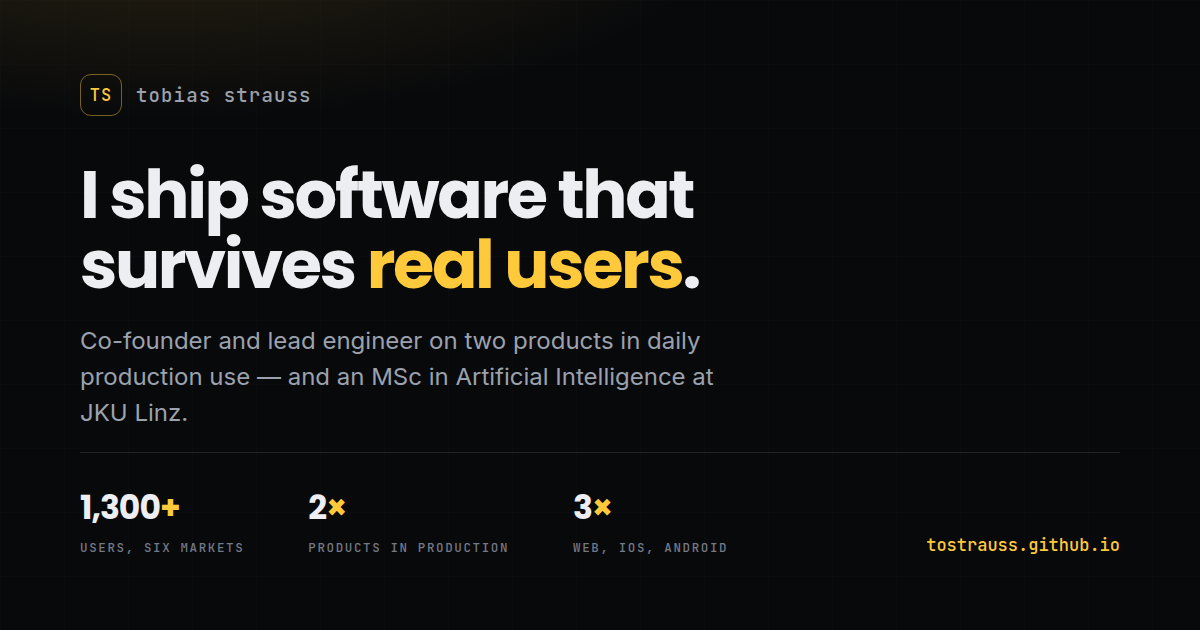
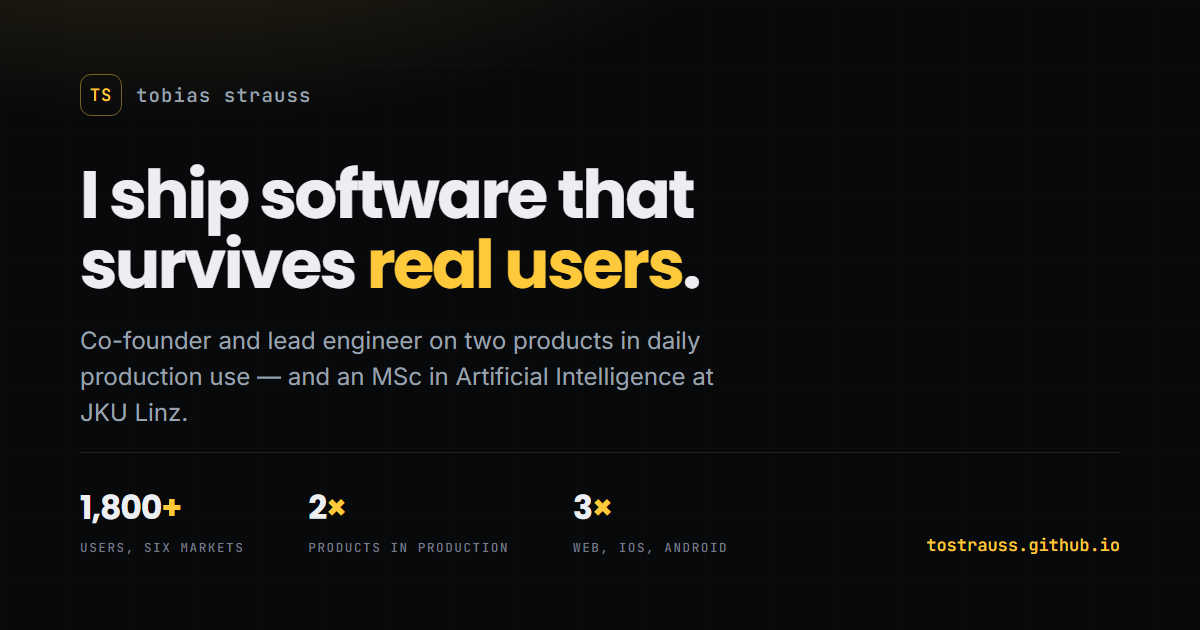
Update the JAMIE user count to 1,800+ and name Gastropoly's pilot venues
JAMIE now has 1,800 users, so every "1,300+" figure moves to "1,800+":
the home proof strip (counter target included), the "Now scaling" card
and the JAMIE preview card, the About bio, the JAMIE case study lede and
KPI, the Resume entry, the Open Graph and Twitter descriptions and the
image alt text on every page, and the share card. og-image.png is
re-rendered from tools/og-card.html; against a render of the unchanged
template only the digits differ.

Gastropoly's single "pilot venue in Austria" becomes three named pilot
venues (Cafe Rathaus, Krawall Bar and Purkis) on the home "Now shipping"
card, in the About bio, the case study lede and the Resume entry, with a
"3 pilot venues" tile on the home card and in the case study KPI row.

The CV generator and the PDF still say 1,300+; they wait for the
pending PDF pass.

diff --git a/index.html b/index.html
@@ -10,16 +10,16 @@
   <link rel="canonical" href="https://tostrauss.github.io/">
 
   <meta property="og:title" content="Tobias Strauss | Full-Stack &amp; AI Engineer, Vienna">
-  <meta property="og:description" content="Full-Stack &amp; AI Engineer in Vienna, available now for part-time roles (20–30 h/week) and freelance projects. Two products in production, 1,300+ users across six European markets.">
+  <meta property="og:description" content="Full-Stack &amp; AI Engineer in Vienna, available now for part-time roles (20–30 h/week) and freelance projects. Two products in production, 1,800+ users across six European markets.">
   <meta property="og:type" content="website">
   <meta property="og:image" content="https://tostrauss.github.io/og-image.png">
   <meta property="og:image:width" content="1200">
   <meta property="og:image:height" content="630">
-  <meta property="og:image:alt" content="Tobias Strauss — I ship software that survives real users. 1,300+ users across six markets, two products in production.">
+  <meta property="og:image:alt" content="Tobias Strauss — I ship software that survives real users. 1,800+ users across six markets, two products in production.">
   <meta property="og:url" content="https://tostrauss.github.io/">
   <meta name="twitter:card" content="summary_large_image">
   <meta name="twitter:title" content="Tobias Strauss | Full-Stack &amp; AI Engineer, Vienna">
-  <meta name="twitter:description" content="Available now for part-time and freelance work in Vienna. Two products in production, 1,300+ users, six markets.">
+  <meta name="twitter:description" content="Available now for part-time and freelance work in Vienna. Two products in production, 1,800+ users, six markets.">
 
   <title>Tobias Strauss | Full-Stack &amp; AI Engineer, Vienna</title>
   <link rel="icon" href="favicon.svg" type="image/svg+xml">
@@ -166,7 +166,7 @@
           <!-- Proof, above the fold -->
           <div class="stats fade-in">
             <div class="stat">
-              <div class="stat-num"><span data-count="1300">1,300</span><span class="unit">+</span></div>
+              <div class="stat-num"><span data-count="1800">1,800</span><span class="unit">+</span></div>
               <p class="stat-label">registered users on JAMIE, across six European markets</p>
             </div>
             <div class="stat">
@@ -183,11 +183,11 @@
           <div class="now-grid">
             <div class="now-card fade-in">
               <span class="mono-label">Now shipping</span>
-              <p><strong>Gastropoly</strong> — restaurant operations platform, in production since July 2026 and running the daily shift at our pilot venue in Austria.</p>
+              <p><strong>Gastropoly</strong> — restaurant operations platform, in production since July 2026 and now in use at three pilot venues: Cafe Rathaus, Krawall Bar and Purkis.</p>
             </div>
             <div class="now-card fade-in">
               <span class="mono-label">Now scaling</span>
-              <p><strong>JAMIE</strong> — 1,300+ registered users across AT, DE, CH, IT, FR and ES, localised in five languages, live on both app stores.</p>
+              <p><strong>JAMIE</strong> — 1,800+ registered users across AT, DE, CH, IT, FR and ES, localised in five languages, live on both app stores.</p>
             </div>
             <div class="now-card fade-in">
               <span class="mono-label">Now studying</span>
@@ -216,6 +216,7 @@
               assistant with voice mode and a weather-driven demand model that feeds both ordering and rostering.
             </p>
             <div class="mini-metrics">
+              <div><span class="mini-num">3</span><span class="mini-label">pilot venues</span></div>
               <div><span class="mini-num">158</span><span class="mini-label">pages</span></div>
               <div><span class="mini-num">63</span><span class="mini-label">API routes</span></div>
               <div><span class="mini-num">155</span><span class="mini-label">migrations</span></div>
@@ -232,7 +233,7 @@
               Activity and to iOS through Capacitor, with real-time chat and push.
             </p>
             <div class="mini-metrics">
-              <div><span class="mini-num">1,300+</span><span class="mini-label">users</span></div>
+              <div><span class="mini-num">1,800+</span><span class="mini-label">users</span></div>
               <div><span class="mini-num">6</span><span class="mini-label">markets</span></div>
               <div><span class="mini-num">5</span><span class="mini-label">languages</span></div>
             </div>

diff --git a/projects.html b/projects.html
@@ -12,7 +12,7 @@
   <meta property="og:image" content="https://tostrauss.github.io/og-image.png">
   <meta property="og:image:width" content="1200">
   <meta property="og:image:height" content="630">
-  <meta property="og:image:alt" content="Tobias Strauss — I ship software that survives real users. 1,300+ users across six markets, two products in production.">
+  <meta property="og:image:alt" content="Tobias Strauss — I ship software that survives real users. 1,800+ users across six markets, two products in production.">
   <meta property="og:url" content="https://tostrauss.github.io/projects.html">
   <meta name="twitter:card" content="summary_large_image">
 
@@ -69,10 +69,11 @@
               Independent restaurants run on paper, spreadsheets and WhatsApp: the roster is on the wall,
               the delivery notes are in a drawer, the fridge temperatures are on a clipboard and the
               accountant gets a shoebox. Gastropoly replaces all of it with one multi-tenant app —
-              in daily use at our pilot venue in Austria, where it runs the actual shift.
+              now in use at three pilot venues: Cafe Rathaus, Krawall Bar and Purkis.
             </p>
 
             <div class="kpi-row">
+              <div class="kpi"><span class="kpi-num">3</span><span class="kpi-label">pilot venues</span></div>
               <div class="kpi"><span class="kpi-num">158</span><span class="kpi-label">pages</span></div>
               <div class="kpi"><span class="kpi-num">63</span><span class="kpi-label">API routes</span></div>
               <div class="kpi"><span class="kpi-num">155</span><span class="kpi-label">DB migrations</span></div>
@@ -191,11 +192,11 @@
               Bouldering, concerts, Feierabend drinks: JAMIE is a social app for the plans that never happen
               because nobody organises them. Groups, clubs, a map of activities and real-time chat —
               live on the App&nbsp;Store and Google&nbsp;Play across six European markets, localised in five
-              languages, with 1,300+ registered users.
+              languages, with 1,800+ registered users.
             </p>
 
             <div class="kpi-row">
-              <div class="kpi"><span class="kpi-num">1,300+</span><span class="kpi-label">registered users</span></div>
+              <div class="kpi"><span class="kpi-num">1,800+</span><span class="kpi-label">registered users</span></div>
               <div class="kpi"><span class="kpi-num">6</span><span class="kpi-label">markets</span></div>
               <div class="kpi"><span class="kpi-num">5</span><span class="kpi-label">languages</span></div>
               <div class="kpi"><span class="kpi-num">2</span><span class="kpi-label">app stores</span></div>

diff --git a/about.html b/about.html
@@ -12,7 +12,7 @@
   <meta property="og:image" content="https://tostrauss.github.io/og-image.png">
   <meta property="og:image:width" content="1200">
   <meta property="og:image:height" content="630">
-  <meta property="og:image:alt" content="Tobias Strauss — I ship software that survives real users. 1,300+ users across six markets, two products in production.">
+  <meta property="og:image:alt" content="Tobias Strauss — I ship software that survives real users. 1,800+ users across six markets, two products in production.">
   <meta property="og:url" content="https://tostrauss.github.io/about.html">
   <meta name="twitter:card" content="summary_large_image">
 
@@ -64,8 +64,8 @@
             <p>
               I build and ship software end to end — most recently <strong>JAMIE</strong>, a social app for
               finding people to actually do things with, live on the App&nbsp;Store and Google&nbsp;Play across
-              six European markets, and <strong>Gastropoly</strong>, an operations platform that has been
-              running an Austrian restaurant's daily shift since July 2026.
+              six European markets, and <strong>Gastropoly</strong>, an operations platform in production since
+              July 2026 and now in use at three pilot venues: Cafe Rathaus, Krawall Bar and Purkis.
             </p>
             <p>
               At JAMIE I lead the technical side: a React/Vite PWA shipped natively on both platforms, a
@@ -73,7 +73,7 @@
               Push and APNs — plus the unglamorous parts that decide whether a product survives contact with
               real users: moderation and reporting, rate limiting, GDPR data export and deletion, and
               encrypted off-site backups I have actually rehearsed restoring. It serves
-              <strong>1,300+ registered users in five languages</strong>.
+              <strong>1,800+ registered users in five languages</strong>.
             </p>
             <p>
               In parallel I co-founded <strong>Gastropoly</strong> and lead its architecture and product: an

diff --git a/resume.html b/resume.html
@@ -12,7 +12,7 @@
   <meta property="og:image" content="https://tostrauss.github.io/og-image.png">
   <meta property="og:image:width" content="1200">
   <meta property="og:image:height" content="630">
-  <meta property="og:image:alt" content="Tobias Strauss — I ship software that survives real users. 1,300+ users across six markets, two products in production.">
+  <meta property="og:image:alt" content="Tobias Strauss — I ship software that survives real users. 1,800+ users across six markets, two products in production.">
   <meta property="og:url" content="https://tostrauss.github.io/resume.html">
   <meta name="twitter:card" content="summary_large_image">
 
@@ -126,7 +126,8 @@
                   accountant cockpit with DATEV export, reporting, and a Claude-powered assistant with voice
                   mode. Integrated ready2order POS, Open-Meteo and AXESS turnstile data into a weather-based
                   demand model driving purchasing and rostering. Tenant isolation enforced in the database, not
-                  the app layer. Set the engineering process for a three-person team.
+                  the app layer. Set the engineering process for a three-person team. In use at three pilot
+                  venues: Cafe Rathaus, Krawall Bar and Purkis.
                 </p>
               </div>
               <div class="timeline-item">
@@ -139,7 +140,7 @@
                   Built the real-time layer — Socket.IO chat with voice messages, photos, replies, read receipts
                   and reactions — plus a push pipeline on Web Push and APNs. Node.js/Express and PostgreSQL on
                   Railway with moderation and reporting, rate limiting, GDPR export and deletion, and encrypted
-                  off-site backups with a rehearsed restore. 1,300+ registered users across AT, DE, CH, IT, FR
+                  off-site backups with a rehearsed restore. 1,800+ registered users across AT, DE, CH, IT, FR
                   and ES, localised in five languages.
                 </p>
               </div>

diff --git a/404.html b/404.html
@@ -9,7 +9,7 @@
   <meta property="og:image" content="https://tostrauss.github.io/og-image.png">
   <meta property="og:image:width" content="1200">
   <meta property="og:image:height" content="630">
-  <meta property="og:image:alt" content="Tobias Strauss — I ship software that survives real users. 1,300+ users across six markets, two products in production.">
+  <meta property="og:image:alt" content="Tobias Strauss — I ship software that survives real users. 1,800+ users across six markets, two products in production.">
   <link rel="icon" href="favicon.svg" type="image/svg+xml">
   <link rel="stylesheet" href="https://cdnjs.cloudflare.com/ajax/libs/font-awesome/6.5.1/css/all.min.css">
   <link rel="preconnect" href="https://fonts.googleapis.com">

diff --git a/tools/og-card.html b/tools/og-card.html
@@ -36,7 +36,7 @@ p{color:#9ba2ae;font-size:24px;line-height:1.5;margin-top:22px;max-width:44ch}
   <h1>I ship software that survives <em>real users</em>.</h1>
   <p>Co-founder and lead engineer on two products in daily production use — and an MSc in Artificial Intelligence at JKU Linz.</p>
   <div class="stats">
-    <div><div class="n">1,300<span>+</span></div><div class="l">users, six markets</div></div>
+    <div><div class="n">1,800<span>+</span></div><div class="l">users, six markets</div></div>
     <div><div class="n">2<span>&times;</span></div><div class="l">products in production</div></div>
     <div><div class="n">3<span>&times;</span></div><div class="l">web, ios, android</div></div>
   </div>

diff --git a/contact.html b/contact.html
@@ -12,7 +12,7 @@
   <meta property="og:image" content="https://tostrauss.github.io/og-image.png">
   <meta property="og:image:width" content="1200">
   <meta property="og:image:height" content="630">
-  <meta property="og:image:alt" content="Tobias Strauss — I ship software that survives real users. 1,300+ users across six markets, two products in production.">
+  <meta property="og:image:alt" content="Tobias Strauss — I ship software that survives real users. 1,800+ users across six markets, two products in production.">
   <meta property="og:url" content="https://tostrauss.github.io/contact.html">
   <meta name="twitter:card" content="summary_large_image">
 
